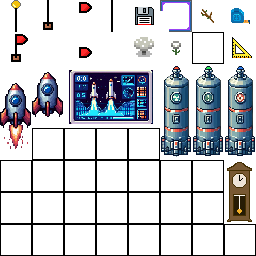
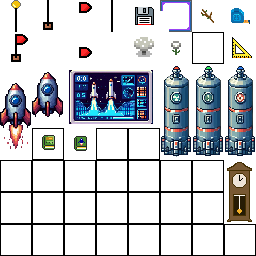
Add rocketry book. fix issues

Changed region(s): [[0.25, 0.5, 0.375, 0.625], [0.1562, 0.5312, 0.2188, 0.5938]]

diff --git a/discoveryworld/scenarios/not_rocket_science.py b/discoveryworld/scenarios/not_rocket_science.py
@@ -3,18 +3,98 @@
 import random
 
 import numpy as np
-from discoveryworld.Agent import NPC, Agent, NPCChef1, NPCColonistAuto2, NPCDevice, NPCFarmer1
+from discoveryworld.Agent import NPC, Agent, NPCDevice
 from discoveryworld.DialogTree import DialogMaker, DialogNode, DialogTree
 from discoveryworld.Layer import Layer
 from discoveryworld.TaskScorer import ScorecardElement, Task
-from discoveryworld.buildings.cave import mkCave
-from discoveryworld.buildings.colony import mkBarracks, mkCafeteria, mkInfirmary, mkRocket, mkScienceLab
-from discoveryworld.buildings.farm import mkFarm
+from discoveryworld.buildings.colony import mkRocket
 
-from discoveryworld.buildings.terrain import mkFenceX, mkFenceY, mkGrassFill, mkPathX, mkPathY, mkSandFill, mkSignVillage, mkTallTree, mkTownSquare
+from discoveryworld.buildings.terrain import mkPathX, mkPathY, mkSandFill, mkSignVillage
 
-from discoveryworld.buildings.house import mkBuildingDivided, mkBuildingOneRoom, mkTableAndChairs
+from discoveryworld.objects.Terrain import LaunchPad, Sand, SandPath
 
+
+ROCKET_FORMULAS = """
+   /\                 -= Rocketry Cheat Sheet =-
+  /  \\
+ /____\  Formulas:
+ |    |    - Escape velocity: v = sqrt(2 * G * M / R)
+ | D  |    - Orbital speed: v = sqrt(G * M / (R + h))
+ | i  |    - Orbital period: T = 2 * pi * sqrt((R + h)^3 / (G * M))
+ | s  |    - Gravitational acceleration: g = G * M / R^2
+ | c  |    - Pendulum period: T = 2 * pi * sqrt(L / g)
+ |----|    - Centripetal acceleration: a = v^2 / R
+ | o  |    - Centripetal force: F = m * v^2 / R
+ | v  |    - Thrust-to-weight ratio: TWR = F / (m * g)
+ | e  |    - Specific impulse: Isp = F / (m_dot * g)
+ | r  |    - Rocket equation: delta_v = Isp * g * ln(m0 / m1)
+ | y  |
+ |----|  Constants & variables:
+ |  W |    - G: gravitational constant (6.67430e-11 N m^2 / kg^2)
+ |  o |    - M: mass of planet
+ |  r |    - R: radius of planet
+ |  l |    - h: height above planet
+ |  d |    - g: acceleration due to gravity             _____
+ |____|    - v: velocity                            ,-:` \;',`'-,
+/|    |\   - T: period                            .'-;_,;  ':-;_,'.
+ ||  ||    - L: length of pendulum               /;   '/    ,  _`.-\\
+ ||  ||    - F: force                           | '`. (`     /` ` \`|
+ ||  ||    - a: acceleration                    |:.  `\`-.   \_   / |
+/_|__|_\   - m_dot: mass flow rate              |     (   `,  .`\ ;'|
+ ||||||    - m0: initial mass of rocket          \     | .'     `-'/
+ /||||\    - m1: final mass of rocket             `.   ;/        .'
+  /||\     - delta_v: change in velocity            `'-.______.-'
+"""
+
+
+PLANETS = [
+    "Earth",
+    "Moon",
+    "Mars",
+    "Io",
+    "Europa",
+    "Mercury",
+    "Venus",
+    "Jupiter",
+    "Saturn",
+    "Uranus",
+    "Neptune",
+    "Pluto",
+    "Ganymede",
+]
+
+# According to https://en.wikipedia.org/wiki/List_of_Solar_System_objects_by_size
+PLANET_RADII = {
+    "Mercury": 2439.4,
+    "Venus": 6052,
+    "Earth": 6371,
+    "Mars": 3389.5,
+    "Jupiter": 69911,
+    "Saturn": 58232,
+    "Uranus": 25362,
+    "Neptune": 24622,
+    "Pluto": 1188.3,
+    "Moon": 1737.5,
+    "Io": 1821.6,
+    "Europa": 1560.8,
+    "Ganymede": 2634.1,
+}
+
+PLANET_MASSES = {
+    "Mercury": 330.11e21,
+    "Venus": 4867.4e21,
+    "Earth": 5972.4e21,
+    "Mars": 641.71e21,
+    "Jupiter": 1898187e21,
+    "Saturn": 568317e21,
+    "Uranus": 86813e21,
+    "Neptune": 102413e21,
+    "Pluto": 13.03e21,
+    "Moon": 73.46e21,
+    "Io": 89.32e21,
+    "Europa": 48.00e21,
+    "Ganymede": 148.2e21,
+}
 
 
 def mkControlRoom(world, x, y):
@@ -25,6 +105,7 @@ def mkControlRoom(world, x, y):
         "#     #",
         "####ds#",
     ]
+    bounds = (x, y, x+len(layout[0]), y+len(layout))
 
     pendulum = world.createObject("Pendulum")
     launchTerminal = LaunchTerminal(world) #world.createObject("LaunchTerminal")
@@ -61,7 +142,7 @@ def mkControlRoom(world, x, y):
             elif char == "p":  # Add pendulum
                 world.addObject(x+i, y+j, Layer.OBJECTS, pendulum)
 
-    return pendulum, launchTerminal
+    return pendulum, launchTerminal, bounds
 
 
 def mkThrustTestingGround(world, x, y):
@@ -125,6 +206,7 @@ def mkLaunchPad(world, x, y, width, height):
     return bounds
 
 
+
 def makeScenarioNotRocketScience(world, numUserAgents=1, difficulty="easy"):
     scoringInfo = {}
     scoringInfo["criticalHypotheses"] = []
@@ -161,9 +243,11 @@ def makeScenarioNotRocketScience(world, numUserAgents=1, difficulty="easy"):
 
     # 1-meter pendulum period
     pendulumLength = 1  # (m)
+    scoringInfo["pendulumLength"] = pendulumLength
+    scoringInfo["criticalHypotheses"].append(f"The pendulum's length is {pendulumLength}m.")
     pendulumPeriod = 2 * np.pi * np.sqrt(pendulumLength / planetGravity)  # (s)
     scoringInfo["pendulumPeriod"] = pendulumPeriod
-    scoringInfo["criticalHypotheses"].append(f"1-meter pendulum period is {pendulumPeriod} ticks.")
+    scoringInfo["criticalHypotheses"].append(f"The pendulum's period is {pendulumPeriod} ticks.")
 
     # Target orbit height
     orbitHeight = world.rng.randint(100, 10000)  # (km)
@@ -194,7 +278,8 @@ def makeScenarioNotRocketScience(world, numUserAgents=1, difficulty="easy"):
     mkRocket(world, 16, 2)
 
     # Rocket Control Operations
-    pendulum, launchTerminal = mkControlRoom(world, 7, 20)
+    pendulum, launchTerminal, controlRoomBounds = mkControlRoom(world, 7, 20)
+    pendulum.setLength(scoringInfo["pendulumLength"])
     pendulum.oscillationPeriod = scoringInfo["pendulumPeriod"]
     launchTerminal.attributes["orbitHeight"] = scoringInfo["orbitHeight"]
     launchTerminal.attributes["targetOrbitSpeed"] = scoringInfo["orbitSpeed"]
@@ -206,10 +291,9 @@ def makeScenarioNotRocketScience(world, numUserAgents=1, difficulty="easy"):
     # Paths
     mkPathX(9, 25, 6, world, type="SandPath")
     mkPathX(18, 25, 13, world, type="SandPath")
-
-    mkPathY(15, 4, 28, world, type="SandPath")   # Down from plaza
-    mkPathY(16, 4, 28, world, type="SandPath")   # Down from plaza
-    mkPathY(17, 4, 28, world, type="SandPath")   # Down from plaza
+    mkPathY(15, 4, 28, world, type="SandPath")
+    mkPathY(16, 4, 28, world, type="SandPath")
+    mkPathY(17, 4, 28, world, type="SandPath")
 
     # Add big village sign
     mkSignVillage(15, 27, world)
@@ -262,9 +346,12 @@ def makeScenarioNotRocketScience(world, numUserAgents=1, difficulty="easy"):
         # print(f"Light angle at row {y} is {lightAngle} degrees.")
 
         for x in range(world.sizeX):
+            if x >= controlRoomBounds[0] and x <= controlRoomBounds[2] and y >= controlRoomBounds[1] and y <= controlRoomBounds[3]:
+                continue
+
             for obj in world.getObjectsAt(x, y):
                 # Check if the object is Sand.
-                if (obj.type == "sand"):
+                if isinstance(obj, (Sand, SandPath, LaunchPad)):
                     obj.attributes["lightAngle"] = lightAngle
 
     # Add dialog to objects.
@@ -277,6 +364,11 @@ def makeScenarioNotRocketScience(world, numUserAgents=1, difficulty="easy"):
         # Create tools
         speed_square = world.createObject("SpeedSquare")
         userAgent.addObject(speed_square)
+
+        rocketry_book = world.createObject("RocketryBook")
+        rocketry_book.attributes["document"] = ROCKET_FORMULAS
+        userAgent.addObject(rocketry_book)
+
         #userAgent.addObject(world.createObject("RocketryBook"))
         # Add the agent to a specfic location
         # world.addObject(16+userAgentIdx, 3, Layer.AGENT, userAgent)    # Near rocket

diff --git a/discoveryworld/objects/Tools.py b/discoveryworld/objects/Tools.py
@@ -344,18 +344,19 @@ class SpeedSquare(Object):
         self.attributes["manualMaterialNames"] = ["Metal"]
 
     def actionUseWith(self, otherObject=None):
-        if isinstance(otherObject, Sand):
-            ground = otherObject
-            useDescriptionStr = f"The rays coming from Planet X's star are {ground.attributes['lightAngle']} degrees from the ground.\n"
+        objects = self.world.getObjectsAt(*self.getWorldLocation())
+        for obj in objects:
+            if "lightAngle" in obj.attributes:
+                useDescriptionStr = f"The rays coming from Planet X's star are {obj.attributes['lightAngle']} degrees from the ground at the current location.\n"
 
-            if ground.attributes["lightAngle"] >= 2:
-                useDescriptionStr = useDescriptionStr.replace("degree", "degrees")
+                if obj.attributes["lightAngle"] >= 2:
+                    useDescriptionStr = useDescriptionStr.replace("degree", "degrees")
 
-        else:
-            useDescriptionStr = "Use on open sky ground tile to measure light angle.\n"
-            return ActionSuccess(False, useDescriptionStr, importance=MessageImportance.LOW)
+                return ActionSuccess(True, useDescriptionStr, importance=MessageImportance.HIGH)
 
-        return ActionSuccess(True, useDescriptionStr, importance=MessageImportance.HIGH)
+        useDescriptionStr = "Use on open sky ground tile to measure light angle.\n"
+        return ActionSuccess(False, useDescriptionStr, importance=MessageImportance.LOW)
+
 
 
 class Pendulum(Object):
@@ -369,9 +370,14 @@ class Pendulum(Object):
         self.attributes['isReadable'] = True
         self.nbTicksSinceActivation = 0
         self.oscillationPeriod = 7
+        self.length = 1
 
         # Material
         self.attributes["manualMaterialNames"] = ["Metal"]
+
+    def setLength(self, length):
+        self.length = length
+        self.name = f"{length}-meter pendulum"
 
     def tick(self):
         super().tick()

diff --git a/discoveryworld/objects/ScienceTools.py b/discoveryworld/objects/ScienceTools.py
@@ -765,6 +765,7 @@ class Rocket(Object):
         assert part is not None, "Rocket must have a part"
         super().__init__(world, "rocket", "rocket", defaultSpriteName=f"launchSite_rocket_{part}")
         self.attributes['isMovable'] = False
+        self.attributes['isPassable'] = (part not in ("bottom", "bottom_fire"))
         self.isFiring = isFiring
 
         # Material
@@ -791,3 +792,11 @@ class FuelTank(Object):
 
         self.attributes["isPassable"] = (part != "b")
         self.attributes["manualMaterialNames"] = ["Metal"]
+
+
+class RocketryBook(Object):
+    def __init__(self, world):
+        super().__init__(world, "book", "rocketry book", defaultSpriteName=f"instruments2_rocketry_book")
+
+        self.attributes["isMovable"] = True
+        self.attributes["isReadable"] = True

diff --git a/discoveryworld/ObjectMaker.py b/discoveryworld/ObjectMaker.py
@@ -310,6 +310,7 @@ class ObjectMaker:
             "FuelTank": FuelTank,
             "SpeedSquare": SpeedSquare,
             "Pendulum": Pendulum,
+            "RocketryBook": RocketryBook,
 
             # Simplified Scientific Instruments
             "SimplifiedMicroscope": [SimplifiedScientificInstrument, "microscope"],
